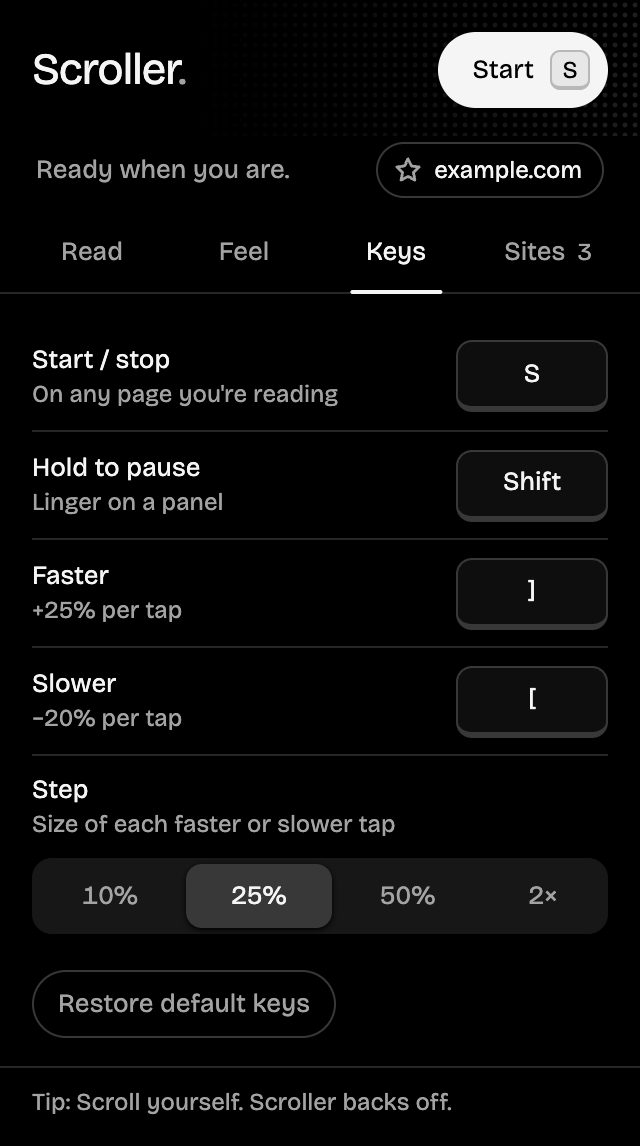
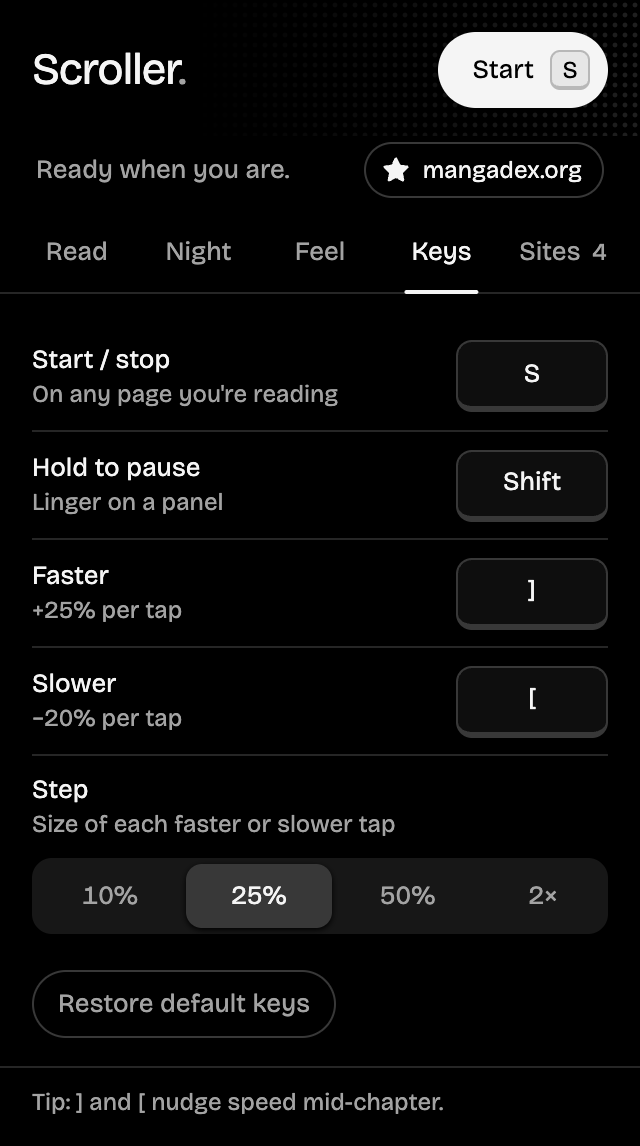
docs: words per minute, Night, Pages and time left
README features, usage, a Night section, wpm presets and two new
troubleshooting entries; fresh screenshots of all five tabs; the new
content scripts, test harness and plug-in hooks in CONTRIBUTING.

diff --git a/README.md b/README.md
@@ -5,8 +5,8 @@
 <h1 align="center">Scroller</h1>
 
 <p align="center">
-  Hands-free auto-scroll for reading manga, webtoons and long pages, in Chrome and Firefox.<br>
-  Press one key, sit back, read top to bottom at exactly the speed you want.
+  Hands-free auto-scroll for reading manga, webtoons and novels, in Chrome and Firefox.<br>
+  Press one key, sit back, read top to bottom at exactly the speed you want. Even in bed.
 </p>
 
 <p align="center">
@@ -17,16 +17,18 @@
 </p>
 
 <p align="center">
-  <img src="docs/screenshots/read.png" width="320" alt="Scroller's Read tab: a big speed readout, slider, six presets from Too damn slow to Too damn fast, end-of-chapter options and a shortcut strip, on a pure black popup">
+  <img src="docs/screenshots/read.png" width="320" alt="Scroller's Read tab: a big speed readout with a px/s or wpm switch, slider, six presets from Too damn slow to Too damn fast, end-of-chapter options and a shortcut strip, on a pure black popup">
 </p>
 
 <table align="center">
   <tr>
-    <td><img src="docs/screenshots/feel.png" width="240" alt="Feel tab: glide or jumps, direction, pause when I scroll, status on page"></td>
-    <td><img src="docs/screenshots/keys.png" width="240" alt="Keys tab: start/stop, hold to pause, faster and slower, each remappable"></td>
-    <td><img src="docs/screenshots/sites.png" width="240" alt="Sites tab: every site with its saved speed and a button to forget it"></td>
+    <td><img src="docs/screenshots/night.png" width="200" alt="Night tab: night filter off, while scrolling or always; dim and warmth sliders; focus; stop after a time or a number of chapters"></td>
+    <td><img src="docs/screenshots/feel.png" width="200" alt="Feel tab: glide, jumps or pages; jump size; direction; pause when I scroll; status on page"></td>
+    <td><img src="docs/screenshots/keys.png" width="200" alt="Keys tab: start/stop, hold to pause, faster and slower, each remappable"></td>
+    <td><img src="docs/screenshots/sites.png" width="200" alt="Sites tab: every site with its saved speed in px/s or wpm and a button to forget it"></td>
   </tr>
   <tr>
+    <td align="center"><b>Night</b></td>
     <td align="center"><b>Feel</b></td>
     <td align="center"><b>Keys</b></td>
     <td align="center"><b>Sites</b></td>
@@ -35,19 +37,23 @@
 
 ## Features
 
-- **A popup that stays out of the way.** Pure black for night reading, four tabs (Read, Feel, Keys, Sites) that each fit without scrolling, and red reserved for one thing: scrolling right now.
+- **A popup that stays out of the way.** Pure black for night reading, five tabs (Read, Night, Feel, Keys, Sites) that each fit without scrolling, and red reserved for one thing: scrolling right now.
 - **One key to start and stop.** Defaults to `S`; change it to any key you like.
 - **Any speed, 1 to 5000 px/s.** A logarithmic slider gives the slow end as much room as the fast end. Type an exact number, or pick a preset from *Too damn slow* to *Too damn fast*.
+- **Words per minute for novels.** On text pages the speed switches to wpm by itself. Scroller measures how much room a word takes in that page's font, line height and column, so 250 wpm reads at 250 words a minute on any site, at any zoom. Chinese and Japanese count characters at a matched pace. Tap the unit to switch a site between wpm and px/s.
 - **Remembers speed per site.** Every reader sizes its pages differently, so each site keeps its own speed. New sites start from the last speed you used. The **Sites** tab lists every site's speed; forget any of them (with undo).
 - **Favorite sites.** Star the readers you love, from the site chip in the popup or the Sites tab. Favorites are pinned to the top and open in one click. Nothing is starred until you star it.
 - **Hold to pause.** Hold `Shift` to freeze on a dense panel; let go and it carries on.
 - **Next chapter, automatically.** At the end of a chapter Scroller can find the reader's *Next* button and keep going on the next one. A whole series, hands-free.
 - **Adjust while reading.** `]` speeds up, `[` slows down. Pick how big each tap is on the Keys tab: 10%, 25%, 50% or 2×.
-- **Glide or jumps.** Scroll continuously, or jump ½, ¾ or a full screen at a time.
+- **Glide, jumps or pages.** Scroll continuously, jump ½, ¾ or a full screen at a time, or snap to each manga page: every jump lands with the next page's top at the top of the screen, below the site's header.
+- **Night mode.** Dim the page, warm it to candlelight, and turn on **Focus** to darken everything beside the strip or the text. On while scrolling, or always.
+- **Stop after** 15 minutes to an hour, or a number of chapters, whichever comes first. Fall asleep mid-binge; Scroller says good night and stops.
+- **Time left in the chapter**, counted to the end of the art or text rather than the comments below it, plus a hairline of progress on the pill.
 - **Up or down.**
 - **Gentle starts and stops.** Eases in and out instead of lurching.
 - **Pauses when you scroll yourself**, then eases back in after two seconds.
-- **Status at a glance.** A red **ON** badge on the toolbar icon, plus an optional pill on the page showing the speed.
+- **Status at a glance.** A red **ON** badge on the toolbar icon, plus an optional pill on the page with the speed, time left and sleep timer.
 - **Works on tricky readers.** Handles sites that use CSS smooth scrolling and readers that scroll an inner panel instead of the page.
 - **Chrome and Firefox.** One codebase, a package for each, same features in both.
 
@@ -86,9 +92,10 @@ Tabs that were already open need a reload before Scroller can run in them. [Watc
 | --- | --- | --- |
 | Start / stop | `S` | Or click **Start** in the popup |
 | Hold to pause | `Shift` | Resumes when you let go |
-| Faster | `]` | +25% per press by default (Keys → *Step*), saved for this site |
+| Faster | `]` | +25% per press by default (Keys → *Step*), saved for this site; steps wpm on text pages |
 | Slower | `[` | Undoes one faster press, saved for this site |
 | Set an exact speed | | Drag the slider, type a number, or click a preset |
+| Switch px/s ⇄ wpm | | Click the unit next to the speed; remembered for the site |
 | Remap a key | | Click it in the popup, press the new key (`Esc` cancels) |
 | See or forget saved sites | | **Sites** tab; × forgets a site, **Undo** brings it back |
 | Reset keys | | **Keys** tab → *Restore default keys* |
@@ -106,6 +113,18 @@ Keys are ignored while you're typing in a text box. Start, faster and slower nev
 
 **How Next chapter finds the button.** It scores every visible link and button on its text, label, class names and `rel="next"`. Wording like "chapter" and arrow icons count in its favor. Anything that says *prev*, *back* or *comments* is skipped. If it can't find one, or clicking it doesn't move the page on, Scroller stops rather than looping. It works with readers that load a new page and with readers that swap chapters in place. Two limits: auto-resume can't cross to a different website, and it only applies when scrolling down.
 
+### Night
+
+| Setting | What it does |
+| --- | --- |
+| **Night filter** | *Off*, *While scrolling* (fades in when you press start, stays while you pause, fades out when you stop) or *Always*. |
+| **Dim** | Darkens the whole page, up to 80%. |
+| **Warmth** | A candlelight tint that takes the blue out of white pages. |
+| **Focus** | Darkens everything beside the reading column: sidebars, side ads, comments. |
+| **Stop after** | A time (15 min to 1 hour, from when you press start) or a number of chapters (with *Next chapter*). Whichever comes first ends the session. |
+
+The filter is drawn over the page, never baked into it, so the site's own layout, fixed headers and clicks keep working. Dim and Warmth preview on the page while you drag them.
+
 ### Speed guide
 
 | Preset | px/s | Feels like |
@@ -116,6 +135,8 @@ Keys are ignored while you're typing in a text box. Start, faster and slower nev
 | Brisk | 120 | Light dialogue, action scenes |
 | Fast | 500 | Skimming |
 | Too damn fast | 3000 | Flying through to find your place |
+
+On text pages the presets are in words per minute: *Savoring* 120, *Relaxed* 180, *Reading* 250, *Brisk* 350, *Fast* 500 and *Skimming* 800. A typical adult reads fiction at 200 to 300 wpm.
 
 ## Privacy and permissions
 
@@ -132,6 +153,8 @@ No accounts, no tracking, no analytics, no network requests. Settings, including
 - **Next chapter picked the wrong button, or none.** Every site is different. Switch *At the end* to **Stop**, and please [open an issue](https://github.com/ShayanHussainSB/scroller/issues/new?template=bug_report.yml) with the reader's address so detection can improve.
 - **Firefox: nothing happens on any site.** Firefox lets you choose which sites an add-on can use. Open `about:addons`, click Scroller → **Permissions**, and allow *Access your data for all websites*.
 - **Firefox: Scroller disappeared.** Unsigned add-ons are unloaded when Firefox restarts; load the zip again from `about:debugging`.
+- **A comic shows wpm, or a novel shows px/s.** Scroller guesses from the page's main content. Click the unit next to the speed to switch; it remembers that site.
+- **Focus darkened the wrong part.** It looks for the biggest column of images or text near where you are. Scroll a little and it re-checks; if a site still fools it, turn Focus off and [tell us the site](https://github.com/ShayanHussainSB/scroller/issues/new?template=bug_report.yml).
 - **It stops when I touch the trackpad.** That's *Pause when I scroll*; it eases back in after two seconds. Turn it off in the popup if you'd rather it didn't.
 
 ## Contributing

diff --git a/CONTRIBUTING.md b/CONTRIBUTING.md
@@ -32,7 +32,11 @@ extension/               Everything the browser loads
 ├── manifest.json        MV3 manifest: the source of truth (Firefox's is derived from it)
 ├── scripts/
 │   ├── defaults.js      Settings, limits and presets shared by page and popup
-│   ├── content.js       The scroller that runs on each page
+│   ├── content.js       The core scroller on each page, its pill, and the hooks features plug into
+│   ├── night.js         Dimmer, warm tint and focus mode
+│   ├── pages.js         Pages style: snap to each page image
+│   ├── wpm.js           Words per minute: text detection and px-per-word measuring
+│   ├── session.js       Stop after (sleep timer, chapter limit) and time left in the chapter
 │   └── background.js    Toolbar icon badge
 ├── popup/               Settings popup (popup.html holds markup and styles)
 ├── fonts/               Bricolage Grotesque (SIL OFL 1.1)
@@ -41,6 +45,11 @@ scripts/                 Tooling (Node, no dependencies)
 ├── check.mjs            npm run check: validates manifests, files, syntax, changelog
 ├── build.mjs            npm run build: packages dist/*-chrome.zip and *-firefox.zip
 └── release-notes.mjs    npm run release-notes: release notes from CHANGELOG.md
+test/                    npm test: headless Chrome on fixture pages, no dependencies
+├── cdp.mjs              Tiny DevTools-protocol driver (pages and the popup)
+├── stub.js              Fake chrome API that loads the content scripts into fixtures
+├── fixtures/            Webtoon, manga and novel pages, plus edge cases
+└── extension.e2e.mjs    The real extension in real Chrome (run by hand)
 docs/screenshots/        Images used by the README and release notes
 .github/                 CI workflows, Dependabot, issue and PR templates
 ```
@@ -49,6 +58,7 @@ docs/screenshots/        Images used by the README and release notes
 
 - **Keep it small and dependency-free.** Plain JavaScript, HTML and CSS that the browser loads directly; no bundler, no npm packages.
 - **Match the surrounding code**: its naming, comment density and formatting (`.editorconfig` covers the basics).
+- **Features plug into the core.** Content scripts share one scope and load in manifest order. A feature listens on `bus` (`start`, `stop`, `tick`, `settings`, `advance`) or wraps a hook from `content.js` (`speed`, `jump`, `canAdvance`, `pillInfo`, `pageState`…) and calls the previous one, so features stack instead of overwriting each other.
 - **Both browsers.** Use APIs that exist in Chrome and Firefox (`chrome.*` works in both). Prefix-specific CSS needs its counterpart, in separate rules.
 - **Popup:** stays pure black, keeps red for "scrolling right now", and every tab must fit in 600px (Chrome's popup limit).
 - **Privacy:** no network requests, analytics or new permissions without a very good reason, called out in the PR.
@@ -57,7 +67,7 @@ docs/screenshots/        Images used by the README and release notes
 
 1. Branch from `main`.
 2. Write commits that each do one thing, with [Conventional Commit](https://www.conventionalcommits.org/) prefixes (`feat:`, `fix:`, `docs:`, `ci:`, `chore:`, `refactor:`).
-3. Run `npm run check`.
+3. Run `npm run check` and `npm test` (needs Chrome; set `CHROME=/path/to/chrome` if it isn't found). For changes to the content scripts, `node test/extension.e2e.mjs` also loads the real extension.
 4. Test on at least one real reader site, in each browser your change touches.
 5. Open the PR and fill in the template, with screenshots for anything visual.
 
